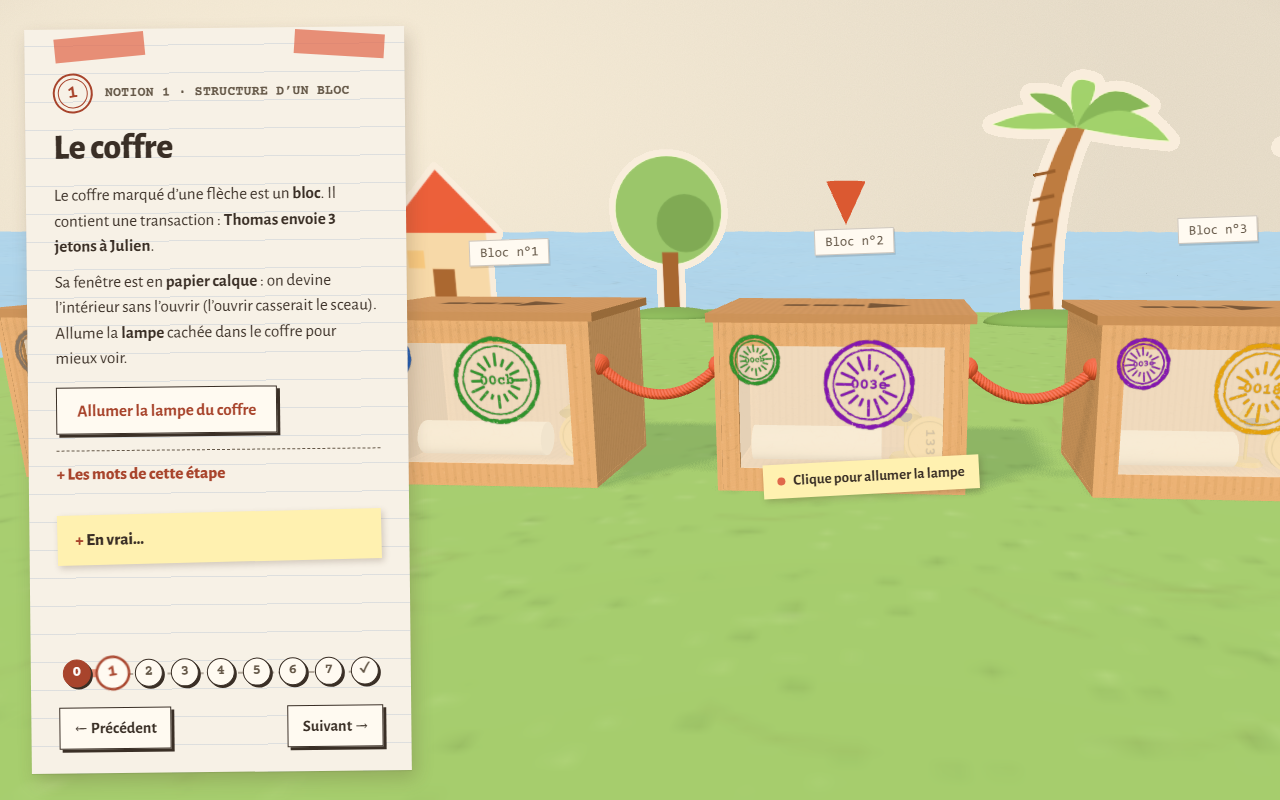
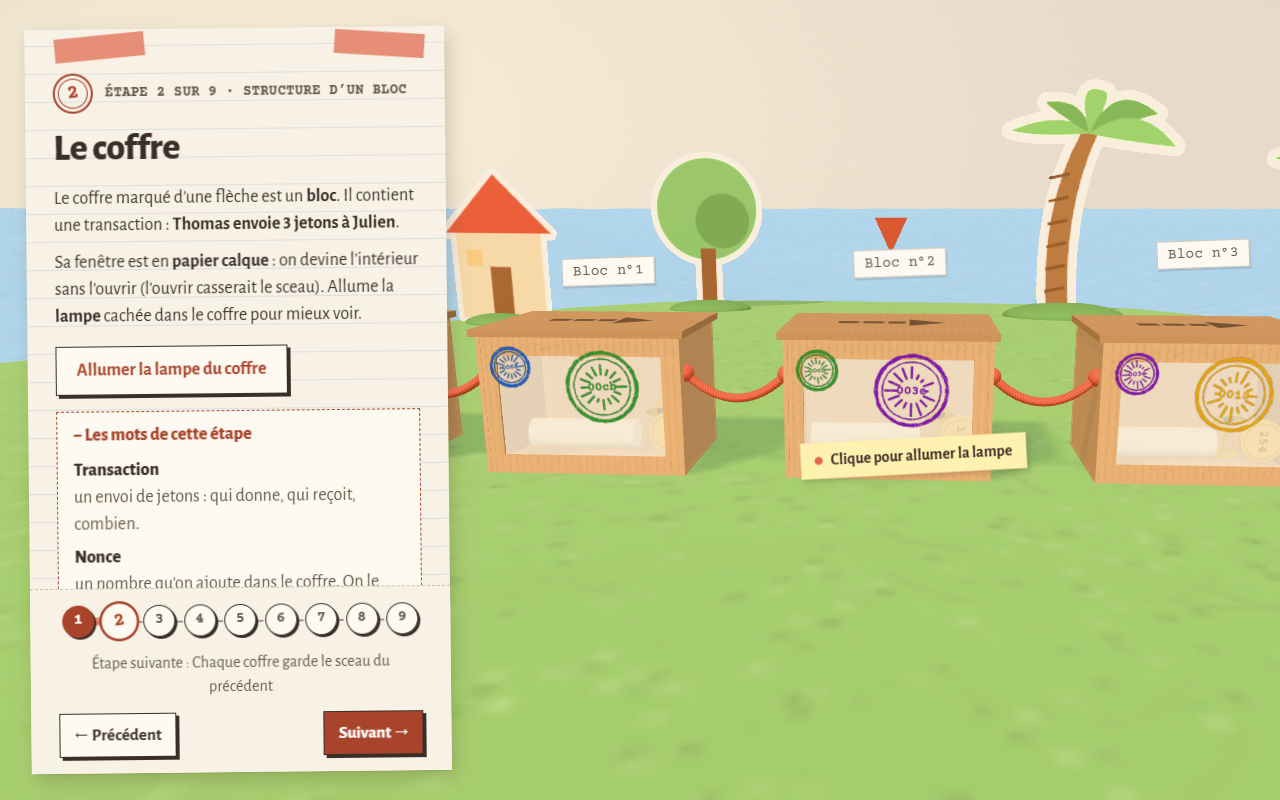
docs: board et preuves de la partie 3 à jour, captures refaites, répartition et commits sans issue (#22 #58)

Changed region(s): [[0.0, 0.0312, 1.0, 0.9688]]

diff --git a/README.md b/README.md
@@ -110,7 +110,35 @@ docs/
 
 ## Tests utilisateurs
 
-Le protocole (consignes, questions par étape, grille d'observation) est dans [`docs/TEST-UTILISATEUR.md`](docs/TEST-UTILISATEUR.md). Les retours sont reportés dans les sections « Tests utilisateurs » de chaque notion de `CHOIX-MODELISATION.md`. Les résultats sont dans [`docs/TEST-UTILISATEUR-RESULTATS.md`](docs/TEST-UTILISATEUR-RESULTATS.md). Session 1 (#17) : 2 testeurs extérieurs ; les notions 1 à 3 passent, les étapes 4 à 7 et le lien « sceau recopié » posent problème ; les corrections sont notées dans CHOIX et suivies dans #45 (rythme), #46 (vocabulaire, lexique par étape) et #47 (copie du sceau animée). Session 2 (#18) : à faire avec 2 testeurs qui n'ont jamais vu le projet.
+Le protocole (consignes, questions par étape, grille d'observation) est dans [`docs/TEST-UTILISATEUR.md`](docs/TEST-UTILISATEUR.md). Les retours sont reportés dans les sections « Tests utilisateurs » de chaque notion de `CHOIX-MODELISATION.md`. Les résultats sont dans [`docs/TEST-UTILISATEUR-RESULTATS.md`](docs/TEST-UTILISATEUR-RESULTATS.md). Session 1 (#17) : 2 testeurs extérieurs ; les notions 1 à 3 passent, les étapes 4 à 7 et le lien « sceau recopié » posent problème ; les corrections sont notées dans CHOIX et suivies dans #45 (rythme), #46 (vocabulaire, lexique par étape) et #47 (copie du sceau animée). Session 2 (#18, 11/11) : 2 testeurs qui n'avaient jamais vu le projet ; T4 atteint le critère du protocole (7 réponses sur 8 justes), T3 non (0 sur 8), plus aucune étape jugée incompréhensible. Retours traités dans #55 (PR #54) ; report dans les fiches de CHOIX suivi dans #56, nouvelle mesure des FPS dans #57.
+
+## Organisation et suivi
+
+Le board ([projet 3](https://github.com/users/dyzlek/projects/3)) a les 5 colonnes communes : Backlog, À faire, En cours, À vérifier, Terminé. Chaque issue a un type, une priorité et, pour les notions, un label « notion : N » ; elle est rattachée à un jalon (M1 Cadrage 09/10, M2 Livraison 15/11, M3 Soutenance 19/11). Une issue fermée l'est avec sa preuve : PR, commit ou fichier de résultats.
+
+### Répartition du travail
+
+| | Dylan (@dyzlek) | Maxens (@MaxX-J) |
+|:---|:---|:---|
+| Issues assignées | #1, #3, #6 à #9, #11, #15, #19, #21, #24, #45 à #47, #55 à #58 (et #2, #5, #25 à deux) | #4, #10, #12 à #14, #16 à #18, #20, #22, #23 (et #2, #5, #25 à deux) |
+| Domaine | Scène 3D et intégration Three.js, notions 1, 2, 3 et 5, caméra et transitions, performances, déploiement, board | Direction « maquette en papier », charte et accessibilité, notions 4, 6 et 7, storyboard, CHOIX-MODELISATION, protocole et sessions de tests utilisateurs |
+| Commits sur `main` (hors fusions, au 16/11) | 71 | 15 |
+
+L'écart de commits ne mesure pas l'écart de travail : une partie du travail de Maxens se fait hors du dépôt (formulaires Google des tests, relectures). Dylan, chargé de l'intégration, fusionne aussi dans le code des éléments conçus à deux, et fait beaucoup de petits commits de correction. Un commit (651209c, 13/10, notion 5) porte l'auteur « Claude » : il a été créé avec l'identité de l'assistant IA au lieu de celle de Dylan ; son contenu est déclaré dans l'usage de l'IA ci-dessous (ligne du 13/10).
+
+### Commits sans numéro d'issue
+
+11 commits sur `main` n'ont pas de numéro d'issue dans leur message. Ils sont rattachés ci-dessous ; depuis le 10/11, tous les commits citent leur issue.
+
+| Commit | Date | Rattaché à |
+|:---|:---|:---|
+| 20549df initialisation du projet | 01/10 | #1 |
+| 52d1608 notions 4 et 5 relues, transitions | 13/10 | #10, #11, #15 |
+| 593a861 étiquettes réduites, archipel replié | 13/10 | #15 |
+| 50421f3, 1af535a fiche de suivi semaine 3 | 19/10 | fiches de suivi (pas d'issue dédiée après la semaine 1, #6) |
+| 2db15bf, 8667670, dcf58e7, 3b94ceb bateaux | 09/11 | #16 (décors), via la PR #39 |
+| 76796c8 consigne du minage, bloc 4 sans sceau | 09/11 | #11, via la PR #39 |
+| d7a0eed sceaux colorés par paire | 10/11 | #47, via la PR #43 |
 
 ## Notions couvertes
 
@@ -141,3 +169,4 @@ L'IA générative (Claude) est utilisée comme assistant. Tout code ou texte gé
 | 27/10/2026 | Audit d'accessibilité de la charte (#16) : contrastes mesurés et corrigés, `aria-current`, clavier, boutons « Éteindre une île », `aria-live` ; protocole de test utilisateur, script du formulaire, sections « Tests utilisateurs » de CHOIX, storyboard écrit, README et fiches 3 et 4 | Contrastes recalculés, build OK, parcours testé dans le navigateur (ordinateur et téléphone simulé à 375 px) ; pas de test avec un vrai lecteur d'écran ; protocole et formulaire à essayer à blanc par le groupe |
 | 07/11 – 09/11/2026 | Une seule scène (chaîne sur l'île de Dylan), traversée des nuages en volume, transitions sans saccade, mer agrandie, décors plantés, trois bateaux (#15 #16) ; bloc falsifié refusé par les autres îles, textes des notions 6 et 7 réécrits après la session 1 (#9 #10 #12 #13) ; course de la notion 7 au hasard ; CHOIX §5 à 7, grille pré-remplie, protocole de la session 2, plan de soutenance (#18 #20 #22 #23) | Rendus validés à l'écran par Dylan ; plus de 60 images/s mesurées, processeur ralenti compris (#19) ; course simulée 300 fois ; documents à relire par le groupe |
 | 10/11 – 11/11/2026 | Textes de toutes les notions relus pour des non-initiés, avions en double expliqués, lexique « Les mots de cette étape », sceaux colorés par paire, copie du sceau animée à la notion 2 (#45 #46 #47) ; storyboard écrit réaligné sur le parcours (#14) ; retours de la session 1 reportés, fiches de suivi, README et CHOIX v0.12 (#17 #20 #21) | Build OK, 0 erreur console, étapes vérifiées dans le navigateur ; documents à relire par le groupe |
+| 16/11/2026 | Synthèse de la session 2 (#18) ; corrections tirées des retours : numérotation « Étape X sur 9 », définition du minage, navigation collée en bas, lexique ouvert, texte 18 px, rendu allégé (#55, PR #54) ; board remis à jour, issues #55 à #58, captures refaites, répartition et commits sans issue documentés (#22, #58) | Build OK, parcours vérifié dans le navigateur (ordinateur et téléphone) ; notation des tests et grille à valider par le groupe ; gain de fluidité non mesuré (#57) |

diff --git a/docs/MMI-R507-projet-blockchain-GRILLE-AUTOEVAL.md b/docs/MMI-R507-projet-blockchain-GRILLE-AUTOEVAL.md
@@ -6,6 +6,8 @@
 
 À remplir en groupe puis individuellement avant la soutenance, dans le dépôt. Elle sert à repérer les lacunes et préparer la soutenance ; elle n'est pas notée en elle-même. Toute note cochée doit être justifiée par une phrase ou une preuve.
 
+> **Partie 3 mise à jour le 16/11/2026 (board, issues #55 à #58, README) ; le reste date du 09/11, à revoir après la session 2.**
+>
 > **Pré-remplie le 09/11/2026 (avant la session 2 et la soutenance), à relire et corriger ensemble.** Chaque note est justifiée par une preuve dans le dépôt. La partie 5 se note après la répétition. Les notes sont volontairement prudentes là où les tests ne prouvent rien encore.
 
 ## Échelle
@@ -49,13 +51,13 @@
 | 3.1 | Le board existe depuis la semaine 1 et utilise les 5 colonnes communes. | 4 | Board créé en semaine 1 (09/10, voir README) avec les colonnes Backlog / À faire / En cours / À vérifier / Terminé |
 | 3.2 | Issues granulaires et assignées. | 3 | Une issue par notion et par livrable (#7 à #25), assignées. Certaines sont larges (#15, #16) et regroupent plusieurs semaines de travail |
 | 3.3 | Labels cohérents. | 4 | Labels « notion : 1 à 7 », « type : dev / doc / design / gestion / test / bug », « priorité : haute / moyenne / basse », « ia » |
-| 3.4 | Milestones obligatoires correspondant au calendrier. | 4 | M1 Cadrage (09/10, fermé), M2 Livraison (15/11), M3 Soutenance (19/11) |
-| 3.5 | Commits réguliers et liés aux issues. | 3 | Commits réguliers depuis le 01/10, la plupart avec un numéro d'issue (#7 à #19). Quelques commits de correction sans issue |
-| 3.6 | Le board reflète l'état réel. | 2 | Au 09/11, les issues des notions (#7 à #13) sont encore ouvertes alors que les notions marchent : à fermer avec un lien vers la PR comme preuve avant le 15/11 |
-| 3.7 | Répartition visible et expliquée. | 2 | Rôles écrits (README, CHOIX §1). Mais la répartition des commits est déséquilibrée (environ 40 pour Dylan, 13 pour Maxens) : à expliquer (Maxens : design, contenu, tests, documents) |
-| 3.8 | Retours transformés en issues puis traités. | 3 | Retours de la session 1 traduits en corrections dans #9, #10, #12, #13 et notés dans CHOIX ; pas d'issue créée pour la notion 2 (copie du sceau) |
+| 3.4 | Milestones obligatoires correspondant au calendrier. | 4 | M1 Cadrage (09/10, 6 issues, fermé), M2 Livraison (15/11, 19 issues, fermé le 16/11), M3 Soutenance (19/11, 7 issues en cours) |
+| 3.5 | Commits réguliers et liés aux issues. | 3 | Commits réguliers du 01/10 au 16/11 (8 fiches de suivi). 46 commits sur 57 (hors fusions) citent leur issue ; les 11 autres sont rattachés après coup dans le README (section « Commits sans numéro d'issue »), et tous les commits citent leur issue depuis le 10/11. Pas 4 : le lien manquait au moment du commit |
+| 3.6 | Le board reflète l'état réel. | 4 | Mis à jour le 16/11 : les issues fermées sont en « Terminé » (#1 à #21, #45 à #47, #55), le travail restant en « À faire » ou « En cours » (#22 à #25, #56 à #58). #18 fermée avec sa preuve (résultats, PR #54) |
+| 3.7 | Répartition visible et expliquée. | 3 | Rôles dans le README et CHOIX §1 ; tableau « Répartition du travail » du README : issues assignées et domaine de chacun. Écart de commits (71 pour Dylan, 15 pour Maxens) expliqué dans le README, ainsi que le commit 651209c au nom de « Claude ». Reste visible et sera à défendre à l'oral |
+| 3.8 | Retours transformés en issues puis traités. | 4 | Session 1 : #45 (rythme), #46 (vocabulaire), #47 (copie du sceau), toutes fermées avec leurs PR (#48, #49, #51). Session 2 : #55 (6 corrections, PR #54, fermée), puis #56 (report dans CHOIX) et #57 (nouvelle mesure des FPS) pour ce qui reste |
 | 3.9 | Usage de l'IA déclaré. | 4 | Tableau daté dans le README, CHOIX §6 (ce que l'IA a fait, erreurs détectées, décisions du groupe), label « ia » |
-| 3.10 | README complet. | 3 | Lancement, liens démo et board, `?etape=N`, accessibilité, structure, usage de l'IA. À relire pour #21 (état final, tests) |
+| 3.10 | README complet. | 4 | Lancement, démo, board, `?etape=1` à 9, parcours, captures refaites le 16/11 avec l'interface actuelle (#58), accessibilité, structure, tests (sessions 1 et 2), organisation et répartition, commits sans issue, usage de l'IA daté jusqu'au 16/11 |
 
 ## Partie 4 — Interaction, UX et finition (15 %)
 
@@ -85,9 +87,9 @@ Additionnez les scores obtenus dans chaque partie : `P1 / 28`, `P2 / 28`, `P3 / 
 
 `Note / 20 = (P1/28 × 5) + (P2/28 × 5) + (P3/40 × 4) + (P4/24 × 3) + (P5/24 × 3)`.
 
-Estimation provisoire (partie 5 non notée, comptée à 12 / 24) : P1 = 22 / 28, P2 = 23 / 28, P3 = 32 / 40, P4 = 21 / 24, P5 = 12 / 24.
+Estimation provisoire (partie 5 non notée, comptée à 12 / 24) : P1 = 22 / 28, P2 = 23 / 28, P3 = 37 / 40 (mise à jour du 16/11), P4 = 21 / 24, P5 = 12 / 24.
 
-`Note ≈ 3,93 + 4,11 + 3,20 + 2,63 + 1,50 = 15,4 / 20` (à recalculer après la session 2 et la répétition).
+`Note ≈ 3,93 + 4,11 + 3,70 + 2,63 + 1,50 = 15,9 / 20` (à recalculer après la session 2 et la répétition).
 
 ## Bilan individuel et actions
 
